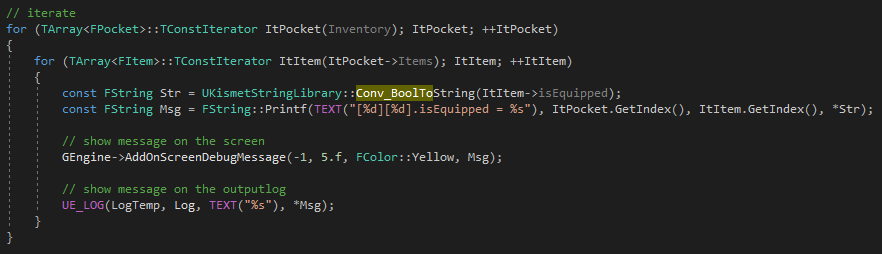
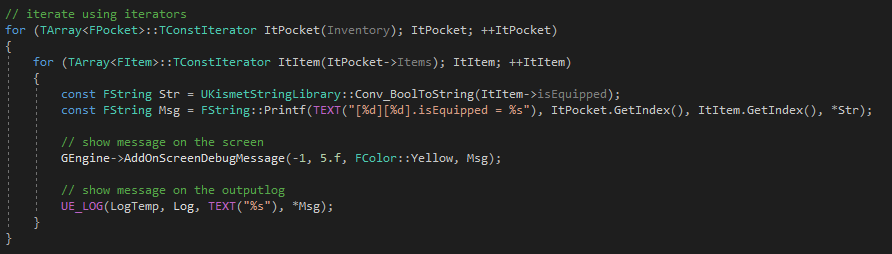
-added iterate examples

diff --git a/Dynamic2DArray/Source/Dynamic2DArray/Private/DummyActor.cpp b/Dynamic2DArray/Source/Dynamic2DArray/Private/DummyActor.cpp
@@ -36,10 +36,10 @@ void ADummyActor::BeginPlay()
 	Inventory[1][2].isEquipped = true;
 
 	// get a non-const reference to an item and update it
-	FItem& Item = Inventory[1][3];
-	Item.isEquipped = true;
+	FItem& ItemRef = Inventory[1][3];
+	ItemRef.isEquipped = true;
 
-	// iterate
+	// iterate using iterators
 	for (TArray<FPocket>::TConstIterator ItPocket(Inventory); ItPocket; ++ItPocket)
 	{
 		for (TArray<FItem>::TConstIterator ItItem(ItPocket->Items); ItItem; ++ItItem)
@@ -53,6 +53,32 @@ void ADummyActor::BeginPlay()
 			// show message on the outputlog
 			UE_LOG(LogTemp, Log, TEXT("%s"), *Msg);
 		}
+	}
+
+	// iterate using raw forloops
+	for (int32 i = 0; i < Inventory.Num(); ++i)
+	{
+		for (int32 j = 0; j < Inventory[i].Items.Num(); ++j)
+		{
+			// show message on the screen
+			const FString Str = UKismetStringLibrary::Conv_BoolToString(Inventory[i][j].isEquipped);
+			GEngine->AddOnScreenDebugMessage(-1, 5.f, FColor::Red, FString::Printf(TEXT("[%d][%d].isEquipped = %s"), i, j, *Str));
+		}
+	}
+
+	// iterate using for each loop
+	int32 i = 0;
+	for (const FPocket& Pocket : Inventory)
+	{
+		int32 j = 0;
+		for (const FItem& Item : Pocket.Items)
+		{
+			// show message on the screen
+			const FString Str = UKismetStringLibrary::Conv_BoolToString(Item.isEquipped);
+			GEngine->AddOnScreenDebugMessage(-1, 5.f, FColor::Blue, FString::Printf(TEXT("[%d][%d].isEquipped = %s"), i, j, *Str));
+			i++;
+		}
+		j++;
 	}
 }
 
